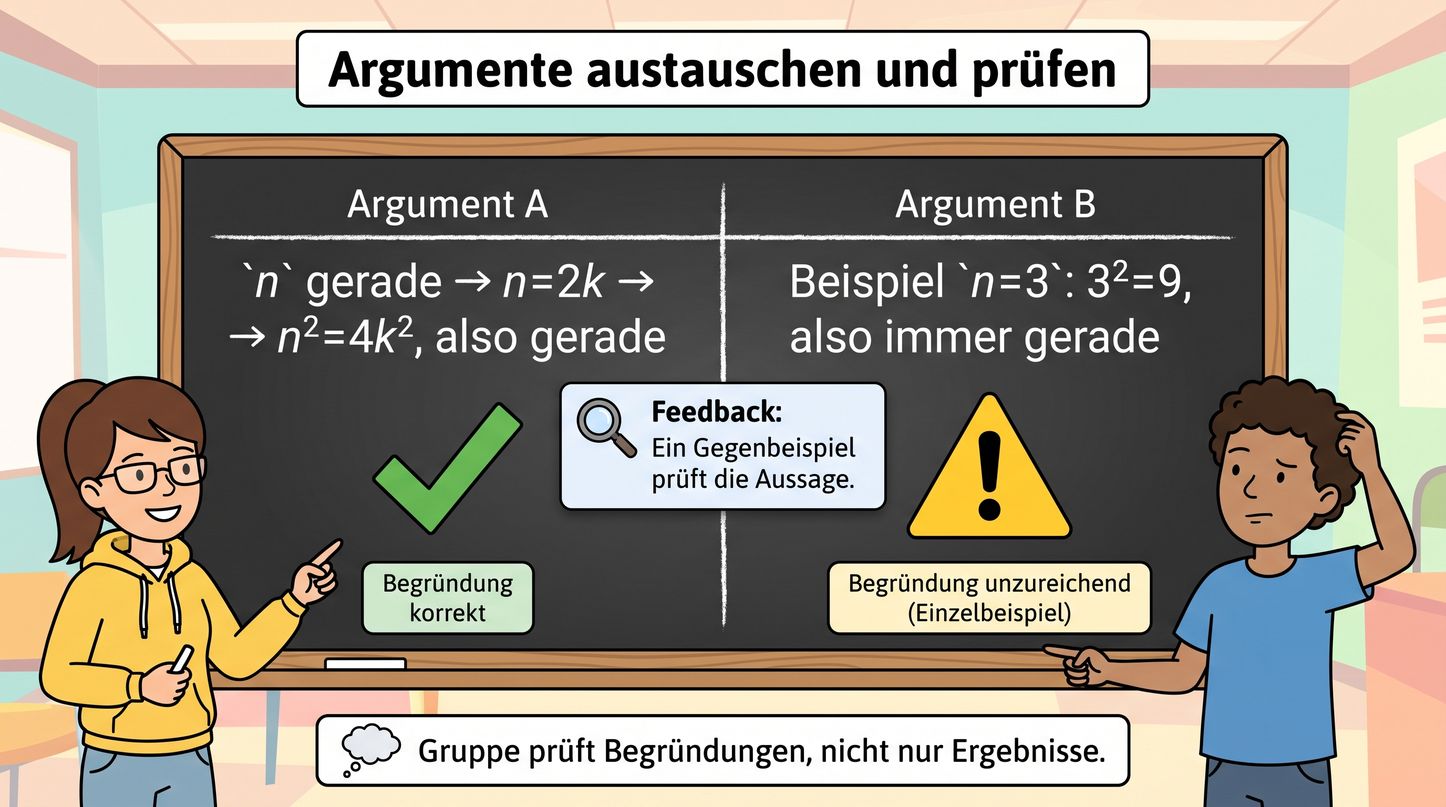
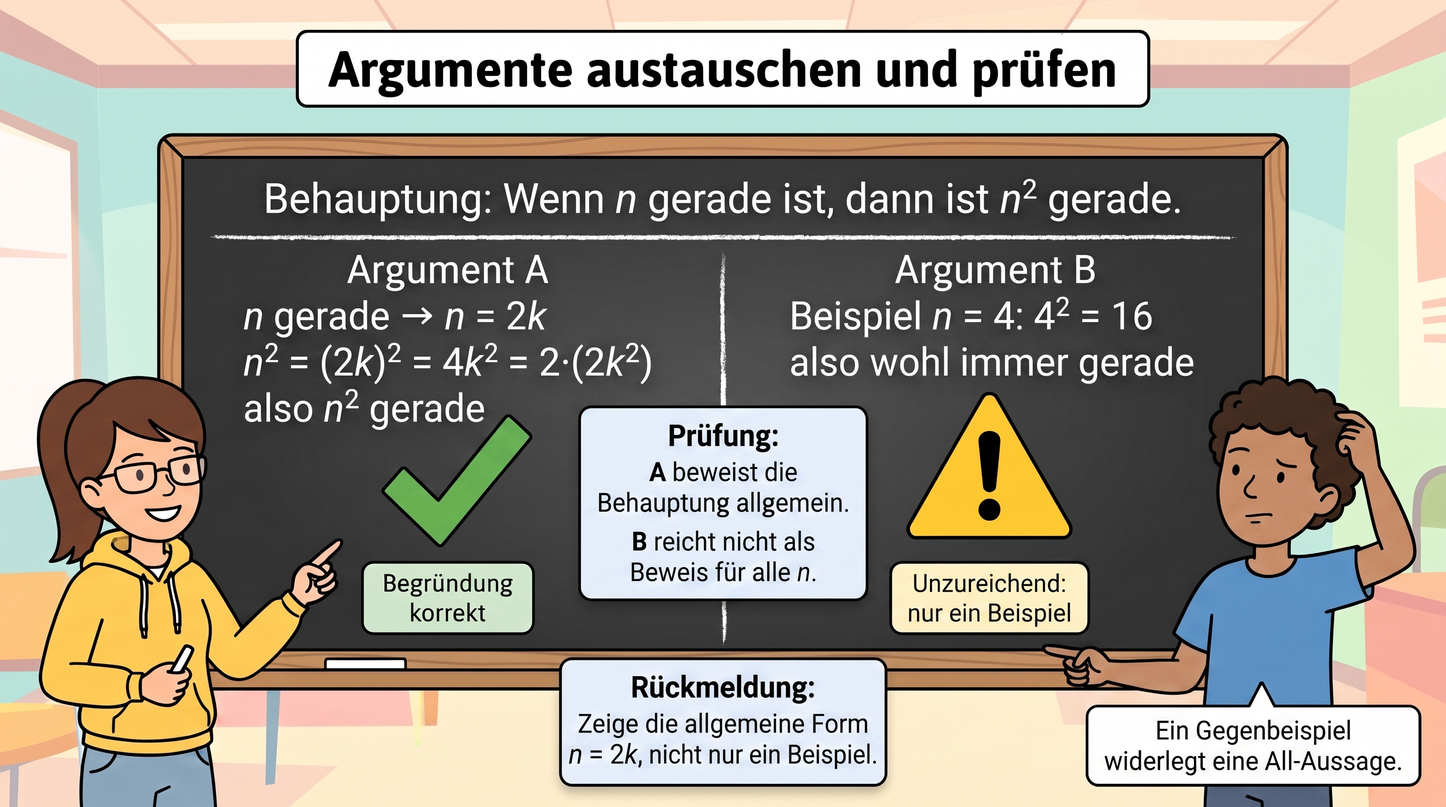
curriculum update (images)

Changed region(s): [[0.1562, 0.3125, 1.0, 1.0], [0.1875, 0.2188, 0.8125, 0.3125]]

diff --git a/curricula/DE/Gymnasium/visualizations/mathematik/67c4d6f8-45fc-53d5-8c95-a4c423e421a6/prompt.de.md b/curricula/DE/Gymnasium/visualizations/mathematik/67c4d6f8-45fc-53d5-8c95-a4c423e421a6/prompt.de.md
@@ -8,8 +8,8 @@
 
 ## Generator
 
-- Provider: Google Gemini / Nano Banana Pro
-- Status: pilot
+- Provider: Google Gemini / Nano Banana Pro (gemini-3-pro-image)
+- Status: approved
 - Quellbild: `67c4d6f8-45fc-53d5-8c95-a4c423e421a6.jpg`
 - Public Asset: `/assets/goal-visualizations/mathematik/67c4d6f8-45fc-53d5-8c95-a4c423e421a6/67c4d6f8-45fc-53d5-8c95-a4c423e421a6.jpg`
 
@@ -19,10 +19,10 @@
 Bitte visualisiere das folgende Lernziel im einfachen Cartoon-Stil.
 
 Rahmen:
-- Zielgruppe: Gymnasium Mathematik.
+- Stil und Anspruch: klar, anschaulich und fachlich präzise; keine Zielgruppen-, Fach- oder Publikumshinweise als Bildtext.
 - Erzeuge eine klare, gut lesbare Infografik im Querformat.
 - Visualisiere genau dieses eine Lernziel; keine Zusatzthemen und keine Aufgabenlösung.
-- Nutze plausible mathematische Beispiele nur, wenn sie das Lernziel unmittelbar erklären.
+- Nutze plausible fachliche Beispiele nur, wenn sie das Lernziel unmittelbar erklären.
 - Keine Drittanbieterlogos, keine Arbeitsblatt-Kopie, keine geschützten Figuren.
 - Verwende wenig Text: kurze deutsche Labels statt langer Sätze.
 - Beschriftungen und mathematische Schreibweisen müssen fachlich korrekt und auch in kleiner Darstellung lesbar sein.
@@ -33,25 +33,45 @@ Beschreibung: Die lernende Person kann arithmetische und geometrische Folgen def
 Zusatzanweisung:
 Pflichtinhalt:
 
-- Show a side-by-side comparison of an arithmetic sequence and a geometric sequence.
-- Arithmetic example:
-  - table `n: 1,2,3,4`;
-  - values `a_n: 5,8,11,14`;
-  - rule `a_n = 5 + (n-1)*3`;
-  - mark the constant difference `+3`.
-- Geometric example:
-  - table `n: 1,2,3,4`;
-  - values `b_n: 2,4,8,16`;
-  - rule `b_n = 2*2^(n-1)`;
-  - mark the constant factor `*2`.
-- Include a small dot plot for both sequences with discrete points, not connected continuous curves.
+Revise the existing two-panel educational illustration while preserving the friendly cartoon infographic style.
+
+The left panel must be titled "Arithmetische Folge".
+Use the table:
+"n" row: 1, 2, 3, 4
+"a_n" row: 5, 8, 11, 14
+Show the constant difference with arrows labeled "+3".
+Show the explicit rule exactly as:
+"a_n = 2 + 3n"
+Optionally show the recurrence as a smaller note:
+"a_n = a_{n-1} + 3,  a_1 = 5"
+
+The right panel must be titled "Geometrische Folge".
+Use the table:
+"n" row: 1, 2, 3, 4
+"b_n" row: 2, 4, 8, 16
+Show the constant factor with arrows labeled "·2".
+Show the explicit rule exactly as:
+"b_n = 2^n"
+The exponent n must be clearly raised as an exponent, not printed on the baseline.
+Optionally show the recurrence as a smaller note:
+"b_n = 2 · b_{n-1},  b_1 = 2"
+
+The graphical representations must use discrete points only. To avoid wrong scale labels, do not write numeric y-axis tick labels. Label the points directly:
+left point labels: "(1|5)", "(2|8)", "(3|11)", "(4|14)";
+right point labels: "(1|2)", "(2|4)", "(3|8)", "(4|16)".
+Both horizontal axes must be labeled "n", not "x".
+The plotted points must match the table values and the displayed formulas.
+
+Use correct German umlauts and keep formulas crisp and readable.
 
 Vermeiden:
 
-- Do not connect sequence points with a smooth function curve.
-- Do not mix up arithmetic difference and geometric factor.
-- Do not change the values or formulas listed above.
-- Do not include technical IDs, filenames, watermarks, or brand names.
+Do not use the old formulas "a_n = 5 + (n-1) · 3" or "b_n = 2 · 2^(n-1)".
+Do not draw smooth curves through sequence points.
+Do not mismatch table values, formulas, arrows, or plotted points.
+Do not change the sequence values to a different example.
+Do not write numeric y-axis tick labels.
+Do not label a sequence graph's horizontal axis as "x"; label it "n".
 ```
 
 ## Review-Notiz

diff --git a/curricula/DE/Gymnasium/visualizations/mathematik/bab64124-fabf-544c-a2e5-3e6c786531d2/prompt.de.md b/curricula/DE/Gymnasium/visualizations/mathematik/bab64124-fabf-544c-a2e5-3e6c786531d2/prompt.de.md
@@ -8,8 +8,8 @@
 
 ## Generator
 
-- Provider: Google Gemini / Nano Banana Pro
-- Status: pilot
+- Provider: Google Gemini / Nano Banana Pro (gemini-3-pro-image)
+- Status: approved
 - Quellbild: `bab64124-fabf-544c-a2e5-3e6c786531d2.jpg`
 - Public Asset: `/assets/goal-visualizations/mathematik/bab64124-fabf-544c-a2e5-3e6c786531d2/bab64124-fabf-544c-a2e5-3e6c786531d2.jpg`
 
@@ -19,10 +19,10 @@
 Bitte visualisiere das folgende Lernziel im einfachen Cartoon-Stil.
 
 Rahmen:
-- Zielgruppe: Gymnasium Mathematik.
+- Stil und Anspruch: klar, anschaulich und fachlich präzise; keine Zielgruppen-, Fach- oder Publikumshinweise als Bildtext.
 - Erzeuge eine klare, gut lesbare Infografik im Querformat.
 - Visualisiere genau dieses eine Lernziel; keine Zusatzthemen und keine Aufgabenlösung.
-- Nutze plausible mathematische Beispiele nur, wenn sie das Lernziel unmittelbar erklären.
+- Nutze plausible fachliche Beispiele nur, wenn sie das Lernziel unmittelbar erklären.
 - Keine Drittanbieterlogos, keine Arbeitsblatt-Kopie, keine geschützten Figuren.
 - Verwende wenig Text: kurze deutsche Labels statt langer Sätze.
 - Beschriftungen und mathematische Schreibweisen müssen fachlich korrekt und auch in kleiner Darstellung lesbar sein.
@@ -33,18 +33,51 @@ Beschreibung: Die lernende Person kann mathematische Argumente in einer Diskussi
 Zusatzanweisung:
 Pflichtinhalt:
 
-- Show two learners comparing mathematical arguments on a board.
-- Argument A: "`n` gerade -> `n=2k` -> `n^2=4k^2`, also gerade" with a checkmark.
-- Argument B: "Beispiel `n=3`: `3^2=9`, also immer gerade" with a warning mark.
-- Add a feedback card: "Ein Gegenbeispiel prueft die Aussage."
-- Make clear that the group checks reasoning, not only final answers.
+Revise the classroom blackboard illustration while preserving the friendly cartoon style and broad layout.
+
+The image must show a clear mathematical discussion with an explicit claim, two proposed arguments, and a justified review.
+
+Use this exact mathematical content:
+
+Title:
+"Argumente austauschen und prüfen"
+
+Claim on the board:
+"Behauptung: Wenn n gerade ist, dann ist n² gerade."
+
+Left side:
+"Argument A"
+"n gerade ⇒ n = 2k"
+"n² = (2k)² = 4k² = 2·(2k²)"
+"also n² gerade"
+"Begründung korrekt"
+
+Right side:
+"Argument B"
+"Beispiel n = 4: 4² = 16"
+"also wohl immer gerade"
+"Unzureichend: nur ein Beispiel"
+
+Review card:
+"Prüfung:"
+"A beweist die Behauptung allgemein."
+"B reicht nicht als Beweis für alle n."
+
+Feedback card:
+"Rückmeldung:"
+"Zeige die allgemeine Form n = 2k, nicht nur ein Beispiel."
+
+Optional small note:
+"Ein Gegenbeispiel widerlegt eine All-Aussage."
+
+Make all formulas and labels clean, legible, and mathematically consistent. Use correct German umlauts.
 
 Vermeiden:
 
-- Do not present the false example argument as correct.
-- Do not mix variables inconsistently.
-- Do not use too much dense text.
-- Do not include technical IDs, filenames, watermarks, or brand names.
+Do not write "Feedback: Ein Gegenbeispiel prüft die Aussage."
+Do not present a counterexample as feedback here.
+Do not omit the explicit claim.
+Do not use an example as if it proved a universal statement.
 ```
 
 ## Review-Notiz

diff --git a/curricula/DE/Gymnasium/quality/goal-visualization-review/mathematik-qa-correction-67c4d6f8-2026-07-06.md b/curricula/DE/Gymnasium/quality/goal-visualization-review/mathematik-qa-correction-67c4d6f8-2026-07-06.md
@@ -1,0 +1,44 @@
+# Goal Visualization Review - Mathematik QA Correction 67c4d6f8
+
+Review date: 2026-07-06
+
+Scope: single corrected mathematics goal visualization.
+
+Status: `completed`
+
+Batch file: `tmp/goal-visualization-correction-67c4d6f8.txt`
+
+Prompt append: `tmp/goal-visualization-prompt-appends/mathematik-corrections/67c4d6f8-45fc-53d5-8c95-a4c423e421a6.md`
+
+## Reviewed Asset
+
+| Goal ID | Title | Decision | Review notes |
+| --- | --- | --- | --- |
+| `67c4d6f8-45fc-53d5-8c95-a4c423e421a6` | Arithmetische und geometrische Folgen beschreiben | `accepted_after_user_issue_correction` | The accepted image uses the requested explicit rules `a_n = 2 + 3n` and `b_n = 2^n`. The arithmetic table shows `n = 1,2,3,4` and `a_n = 5,8,11,14`, with constant difference `+3` and recurrence `a_n = a_{n-1} + 3, a_1 = 5`. The geometric table shows `b_n = 2,4,8,16`, with factor `·2` and recurrence `b_n = 2·b_{n-1}, b_1 = 2`. The graph panels use discrete points with direct labels `(1|5)`, `(2|8)`, `(3|11)`, `(4|14)` and `(1|2)`, `(2|4)`, `(3|8)`, `(4|16)`. Both horizontal axes are labelled `n`. Visible German umlauts are correct. |
+| `67c4d6f8-45fc-53d5-8c95-a4c423e421a6` | first and second regeneration candidates | `rejected_regenerated` | These candidates corrected the explicit formulas but retained an inconsistent repeated y-axis tick label in the arithmetic graph. They were not imported. |
+| `67c4d6f8-45fc-53d5-8c95-a4c423e421a6` | third regeneration candidate | `rejected_regenerated` | This candidate removed the problematic y-axis numbers and labelled points directly, but the geometric graph's horizontal axis was labelled `x` instead of `n`. It was not imported. |
+
+## Import
+
+- Accepted candidate: `tmp/goal-visualizations/67c4d6f8-45fc-53d5-8c95-a4c423e421a6/generated/67c4d6f8-45fc-53d5-8c95-a4c423e421a6.generated.2026-07-06T16-19-55-985Z.jpg`
+- Public asset: `app/public/assets/goal-visualizations/mathematik/67c4d6f8-45fc-53d5-8c95-a4c423e421a6/67c4d6f8-45fc-53d5-8c95-a4c423e421a6.jpg`
+- Canonical asset: `curricula/DE/Gymnasium/visualizations/mathematik/67c4d6f8-45fc-53d5-8c95-a4c423e421a6/67c4d6f8-45fc-53d5-8c95-a4c423e421a6.jpg`
+- Asset hash: `sha256:1f949858ab8174a20b2c0d20b8626e5817acd7f244a4ac52dd688200d5afadf4`
+
+## Provider Request Safety
+
+- Final provider request was checked for the canonical goal ID: not present.
+- Final provider request was checked for `SkillPilot`: not present.
+- Final provider request was checked for repo paths: not present.
+- Final provider request was checked for school-form labels such as `Gymnasium`: not present.
+
+## Review Decision
+
+Accepted.
+
+- The old explicit rules `a_n = 5 + (n-1)·3` and `b_n = 2·2^(n-1)` are no longer used.
+- The table values match the new explicit formulas for `n = 1,2,3,4`.
+- The recurrence formulas include matching initial values.
+- The graph panels show labelled discrete sequence points, not smooth curves.
+- All visible graph labels match the corresponding table values.
+- The accepted image was inspected with `view_image` before and after import.

diff --git a/curricula/DE/Gymnasium/quality/goal-visualization-review/mathematik-qa-correction-bab64124-2026-07-06.md b/curricula/DE/Gymnasium/quality/goal-visualization-review/mathematik-qa-correction-bab64124-2026-07-06.md
@@ -1,0 +1,42 @@
+# Goal Visualization Review - Mathematik QA Correction bab64124
+
+Review date: 2026-07-06
+
+Scope: single corrected mathematics goal visualization.
+
+Status: `completed`
+
+Batch file: `tmp/goal-visualization-correction-bab64124.txt`
+
+Prompt append: `tmp/goal-visualization-prompt-appends/mathematik-corrections/bab64124-fabf-544c-a2e5-3e6c786531d2.md`
+
+## Reviewed Asset
+
+| Goal ID | Title | Decision | Review notes |
+| --- | --- | --- | --- |
+| `bab64124-fabf-544c-a2e5-3e6c786531d2` | Argumente austauschen und prüfen | `accepted_after_user_issue_correction` | The accepted image replaces the misleading feedback statement with a clear claim, two proposed arguments, a review card, and a justified feedback card. The claim is explicit: if `n` is even, then `n²` is even. Argument A gives the general proof `n=2k`, `n²=(2k)²=4k²=2·(2k²)`, so `n²` is even. Argument B uses only `n=4` and is correctly marked as insufficient because a single example does not prove a universal statement. The feedback correctly asks for the general form `n=2k` rather than only an example. The counterexample note is limited to disproving universal statements. Visible German umlauts are correct. |
+
+## Import
+
+- Accepted candidate: `tmp/goal-visualizations/bab64124-fabf-544c-a2e5-3e6c786531d2/generated/bab64124-fabf-544c-a2e5-3e6c786531d2.generated.2026-07-06T16-05-51-874Z.jpg`
+- Public asset: `app/public/assets/goal-visualizations/mathematik/bab64124-fabf-544c-a2e5-3e6c786531d2/bab64124-fabf-544c-a2e5-3e6c786531d2.jpg`
+- Canonical asset: `curricula/DE/Gymnasium/visualizations/mathematik/bab64124-fabf-544c-a2e5-3e6c786531d2/bab64124-fabf-544c-a2e5-3e6c786531d2.jpg`
+- Asset hash: `sha256:a293f252cc95d6e3bee2696621e1a84cafd26667ca889ae32476251acde2e8cf`
+
+## Provider Request Safety
+
+- Final provider request was checked for the canonical goal ID: not present.
+- Final provider request was checked for `SkillPilot`: not present.
+- Final provider request was checked for repo paths: not present.
+- Final provider request was checked for school-form labels such as `Gymnasium`: not present.
+
+## Review Decision
+
+Accepted.
+
+- The previous wording `Feedback: Ein Gegenbeispiel prüft die Aussage` is gone.
+- The image now distinguishes proof, insufficient evidence, review, and feedback.
+- The displayed proof for the even-square claim is algebraically correct.
+- The single-example argument is not treated as a proof.
+- The feedback is a concrete improvement suggestion tied to the displayed argument.
+- The accepted image was inspected with `view_image` before and after import.

diff --git a/curricula/DE/Gymnasium/quality/goal-visualization-review/mathematik-rollout-status.md b/curricula/DE/Gymnasium/quality/goal-visualization-review/mathematik-rollout-status.md
@@ -8,7 +8,7 @@
 > Source of truth: `curricula/DE/Gymnasium/canonical/DE_DEU_S_GYM_CANONICAL_MATHEMATIK.de.json`
 > Source of truth: `curricula/DE/Gymnasium/quality/goal-visualization-review`
 
-Generated: 2026-07-06T15:47:52.509Z
+Generated: 2026-07-06T16:23:26.338Z
 
 Scope: canonical `DE Gymnasium Mathematik`, atomic goal visualizations.
 
@@ -33,8 +33,8 @@ Scope: canonical `DE Gymnasium Mathematik`, atomic goal visualizations.
 
 | Status | Count |
 | --- | --- |
-| `approved` | 15 |
-| `pilot` | 739 |
+| `approved` | 17 |
+| `pilot` | 737 |
 
 ## Ledger Decisions
 
